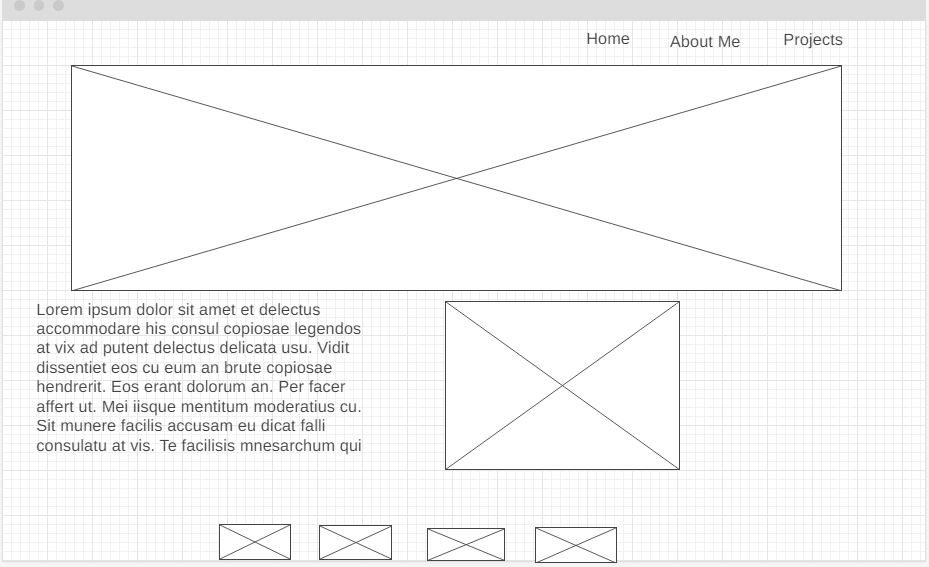
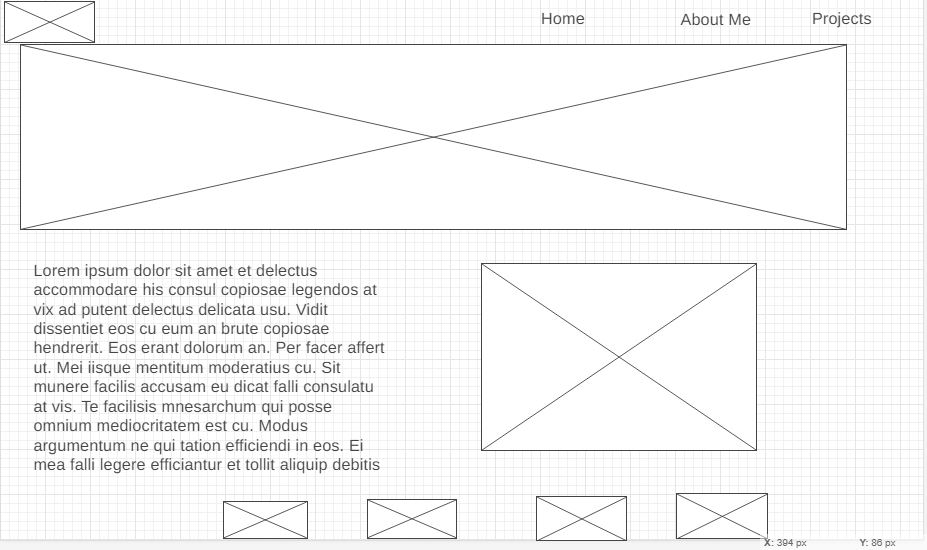
edited my about me page aligned it with my wireframe

diff --git a/sammyaweportfolio/aboutme.html b/sammyaweportfolio/aboutme.html
@@ -4,33 +4,36 @@
     <meta charset="UTF-8">
     <meta name="viewport" content="width=device-width, initial-scale=1.0">
     <title>Awe Samuel Opeoluwa</title>
+    <link rel="stylesheet" href="styles/style.css">
 </head>
 <body>
-    <nav>
-        <a href="index.html">Home</a>
-        <a href="aboutme.html">About Me</a>
-        <a href="projects.html">Projects</a>
-    </nav> 
+        <header>
+            <a id="homeimage" href="index.html">
+                <img class="homeimg" src="images/sammyawelogo.svg" alt="Sammy Awe Logo">
+            </a>
+            <nav>
+                <a href="index.html">Home</a>
+                <a href="aboutme.html">About Me</a>
+                <a href="projects.html">Projects</a>
+            </nav>
+        </header>
     <div id="Aboutmehero">
         <div id="aboutmebox">
             <img id="aboutme-img" src="images/aboutmepage1.jpg" alt="random dude on the pavement">
         </div>
-        <section id="hero-msg">
-            <h1 class="home-title">ABOUT ME
-            </h1>
+    </div>
+    <main id="aboutme-msg">
+            <h1 class="aboutme-title">ABOUT ME</h1>
             <h2>Hi! My name is Sam and i am a web developer. I love working on 
                 the web and making it a home for everyone and also where our creative ideas come alive. It has been fun
             combining my love of art with designing. I am open to working on a few collaborations too. I am a huge fan of european
         soccer and the NBA. I love pets, playing video games and listening to soulful and meaningful music. </h2>
-        </section>
+    
         <div id="facecard">
             <img id="facecard-img" src="images/portrait.jpg" alt="my picture">
         </div>
+    </main>
         
-        </div>
-    </div>    
-      
-
     <footer>
         <p>Samuel Awe &copy; 2023 - Samuel Awe</p>
         <p><a href="site-plan.html">Site Plan</a></p>
@@ -45,9 +48,10 @@
             <a href="https://instagram.com" target="_blank">
                 <img src="images/instagram.png" alt="instagram icon">
             </a>
-            
+            <a href="https://github.com/SammyAwe/wdd130/" target="_blank">
+                <img src="images/github-mark.svg" alt="github icon">
+            </a>
         </div>
-</footer>
-</div>    
+    </footer>  
 </body>    
 </html>

diff --git a/sammyaweportfolio/styles/style.css b/sammyaweportfolio/styles/style.css
@@ -13,6 +13,7 @@ nav a {
 }
 #hero-msg h1 {
     text-align: left;
+    padding-left: 55px;
 }
 body {
     background-color: #182339;
@@ -107,6 +108,7 @@ footer a:hover {
     box-shadow: 0 4px 8px 0 #BCD3F2;
     transition: 0.3s;
     width: 40%;
+    padding: 55px;
 }
 .card:hover {
     box-shadow: 0 8px 16px 0 #837A34;
@@ -134,6 +136,45 @@ footer p a:hover {
     padding-top: 15px;
     height: 68px;
 }
+#aboutmehero {
+    display: grid;
+    grid-template-columns: 1fr 3fr 1fr;
+    margin-top: -100px;
+}
+#aboutmebox {
+    grid-column: 1/4;
+    grid-row: 1/3;
+    z-index: -1;
+}
+#aboutme-img {
+    width: 90%;
+    padding: 55px;
+}
+.aboutme-title {
+    font-family: 'Bevan';
+}
+h2 {
+    font-family: 'roboto slab';
+}
+main {
+    display: grid;
+    grid-template-columns: 1fr 1fr;
+    padding: 55px;
+}
+#aboutme-msg {
+    background-color: #182339;
+    color: #BCD3F2;
+    grid-column: 1/2;
+}
+h2 {
+    grid-column: 1/2;
+}
+#facecard {
+    grid-column: 2/2;
+    
+}
+
+
 
 @media screen and (max-width: 900px) {
     #hero, .home-grid {
